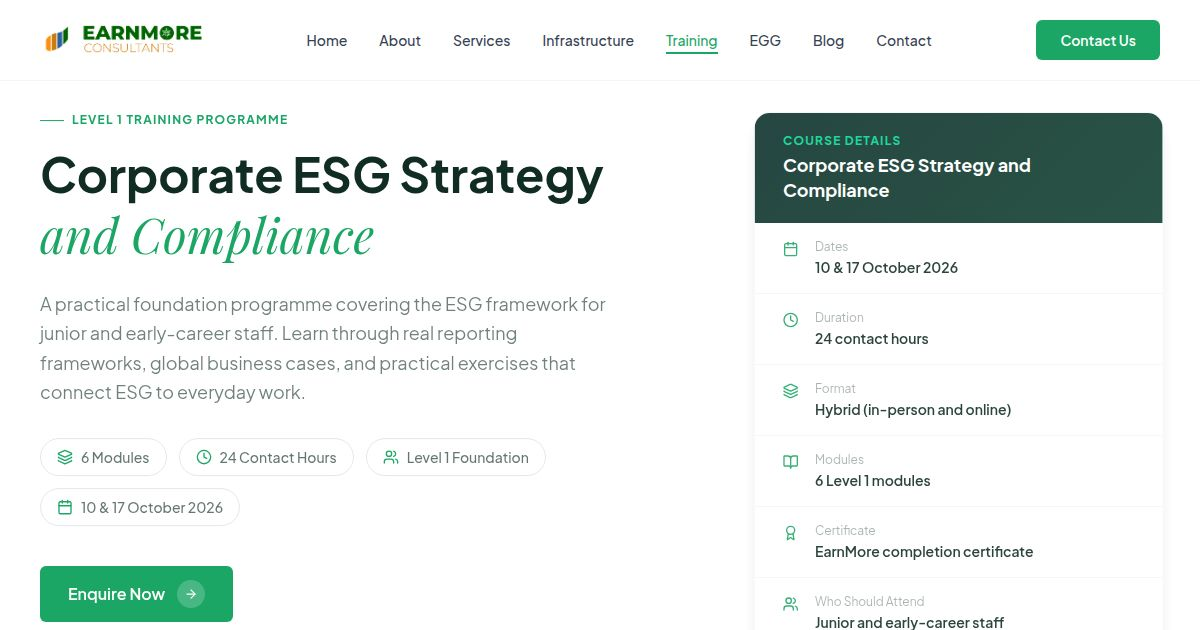
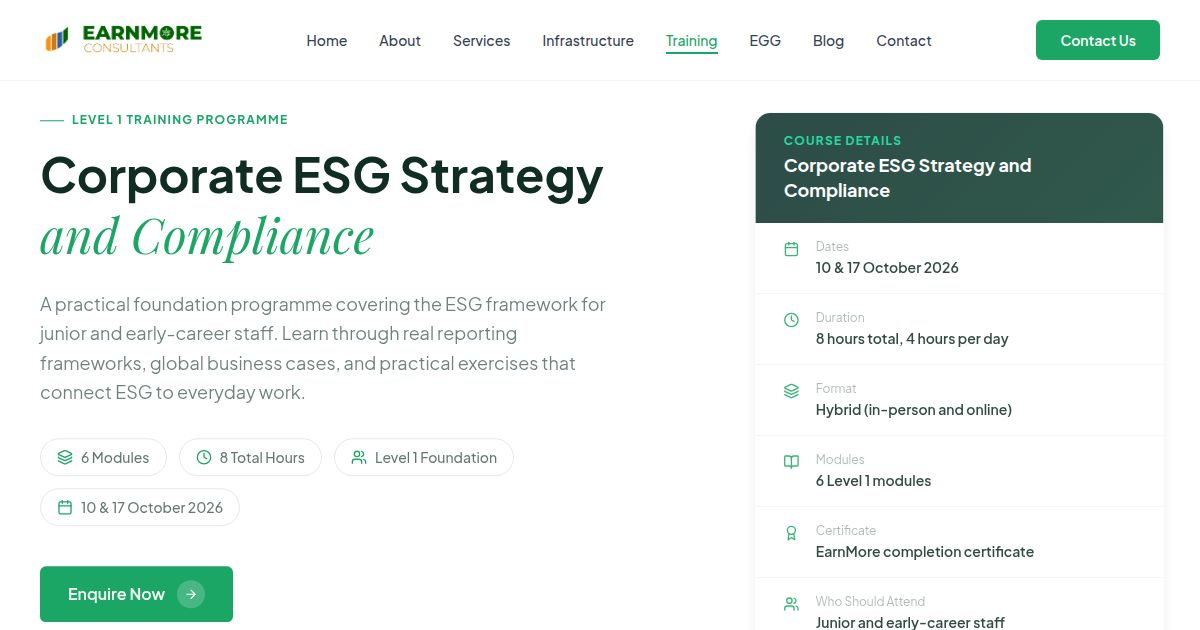
Update training page and OG image
Replit-Commit-Author: Agent

diff --git a/artifacts/earnmore-website/src/pages/training.tsx b/artifacts/earnmore-website/src/pages/training.tsx
@@ -15,8 +15,8 @@ const level1Modules = [
   {
     num: "01",
     title: "Introduction to ESG and Why It Matters",
-    duration: "4 hours",
-    day: "Day 1, Session 1",
+    duration: "1 hour 20 minutes",
+    day: "10 October 2026, Session 1",
     topics: [
       "What is ESG? Definitions and real-world relevance",
       "How ESG affects everyday business decisions",
@@ -34,8 +34,8 @@ const level1Modules = [
   {
     num: "02",
     title: "Environment Basics: Climate, Carbon and Your Company",
-    duration: "4 hours",
-    day: "Day 1, Session 2",
+    duration: "1 hour 20 minutes",
+    day: "10 October 2026, Session 2",
     topics: [
       "Climate change explained plainly",
       "What is a carbon footprint?",
@@ -53,8 +53,8 @@ const level1Modules = [
   {
     num: "03",
     title: "Social Responsibility: People, Fair Work and Community",
-    duration: "4 hours",
-    day: "Day 2, Session 1",
+    duration: "1 hour 20 minutes",
+    day: "10 October 2026, Session 3",
     topics: [
       "What social responsibility means at work",
       "Fair wages, labour rights and safe conditions",
@@ -72,8 +72,8 @@ const level1Modules = [
   {
     num: "04",
     title: "Governance Foundations: Rules, Ethics and Accountability",
-    duration: "4 hours",
-    day: "Day 2, Session 2",
+    duration: "1 hour 20 minutes",
+    day: "17 October 2026, Session 1",
     topics: [
       "What is corporate governance?",
       "Boards, management and accountability structures",
@@ -91,8 +91,8 @@ const level1Modules = [
   {
     num: "05",
     title: "ESG Reporting and Measurement: Reading the Numbers",
-    duration: "4 hours",
-    day: "Day 3, Session 1",
+    duration: "1 hour 20 minutes",
+    day: "17 October 2026, Session 2",
     topics: [
       "Why companies report ESG data",
       "Key frameworks: GRI, SASB and ISSB simplified",
@@ -110,8 +110,8 @@ const level1Modules = [
   {
     num: "06",
     title: "Capstone: Your Personal ESG Action Plan",
-    duration: "4 hours",
-    day: "Day 4 (Full Day)",
+    duration: "1 hour 20 minutes",
+    day: "17 October 2026, Session 3",
     topics: [
       "Linking ESG to your day-to-day role",
       "Building a personal ESG commitment",
@@ -239,7 +239,7 @@ export default function TrainingPage() {
     <>
       <Seo
         title="Corporate ESG Training Programme | EarnMore Group"
-        description="Corporate ESG Strategy and Compliance Level 1 training for junior and early-career staff. Six practical modules across scheduled sessions on 10 and 17 October 2026. Contact EarnMore for Level 2 training."
+        description="An 8-hour Corporate ESG Strategy and Compliance Level 1 training for junior and early-career staff, delivered on 10 and 17 October 2026. Contact EarnMore for Level 2 training."
         keywords="ESG training Nigeria, ESG course Africa, sustainability training, corporate ESG programme, ESG Institute certificate"
         canonical="/training"
         ogImage="https://earnmoregroup.com/og/training.jpg"
@@ -275,7 +275,7 @@ export default function TrainingPage() {
                   <div className="flex flex-wrap gap-3 mb-10">
                     {[
                       { icon: <Layers className="w-4 h-4" />, label: "6 Modules" },
-                      { icon: <Clock className="w-4 h-4" />, label: "24 Contact Hours" },
+                      { icon: <Clock className="w-4 h-4" />, label: "8 Total Hours" },
                       { icon: <Users className="w-4 h-4" />, label: "Level 1 Foundation" },
                       { icon: <Calendar className="w-4 h-4" />, label: "10 & 17 October 2026" },
                     ].map((b, i) => (
@@ -322,7 +322,7 @@ export default function TrainingPage() {
                   <div className="bg-white divide-y divide-gray-100">
                     {[
                       { icon: <Calendar className="w-4 h-4" />, label: "Dates", value: "10 & 17 October 2026" },
-                      { icon: <Clock className="w-4 h-4" />, label: "Duration", value: "24 contact hours" },
+                      { icon: <Clock className="w-4 h-4" />, label: "Duration", value: "8 hours total, 4 hours per day" },
                       { icon: <Layers className="w-4 h-4" />, label: "Format", value: "Hybrid (in-person and online)" },
                       { icon: <BookOpen className="w-4 h-4" />, label: "Modules", value: "6 Level 1 modules" },
                       { icon: <Award className="w-4 h-4" />, label: "Certificate", value: "EarnMore completion certificate" },
@@ -392,7 +392,7 @@ export default function TrainingPage() {
                   <p className="text-foreground/65 text-sm mb-5 leading-relaxed">Junior and early-career staff (0-5 years). No prior ESG knowledge needed.</p>
                   <p className="text-xs font-bold text-foreground/40 uppercase tracking-wider mb-3">Programme Details</p>
                   <ul className="space-y-2 mb-5">
-                    {["6 modules", "24 contact hours", "Pass mark: 70%", "EarnMore completion certificate"].map((detail) => (
+                    {["6 modules", "8 hours total", "4 hours on each training day", "Pass mark: 70%", "EarnMore completion certificate"].map((detail) => (
                       <li key={detail} className="flex items-center gap-2 text-sm text-foreground/70 font-medium">
                         <CheckCircle2 className="w-4 h-4 text-primary flex-shrink-0" />
                         {detail}
@@ -570,7 +570,7 @@ export default function TrainingPage() {
                   {[
                     { label: "Target Audience", value: "Junior and early-career staff (0-5 years). No prior ESG knowledge needed." },
                     { label: "Scheduled Sessions", value: "10 and 17 October 2026" },
-                    { label: "Duration", value: "24 contact hours" },
+                    { label: "Duration", value: "8 hours total, 4 hours per training day" },
                     { label: "Modules", value: "6 modules covering all three ESG pillars" },
                     { label: "Pass Mark", value: "70% on a 20-question written assessment" },
                     { label: "Certificate", value: "EarnMore completion certificate" },
